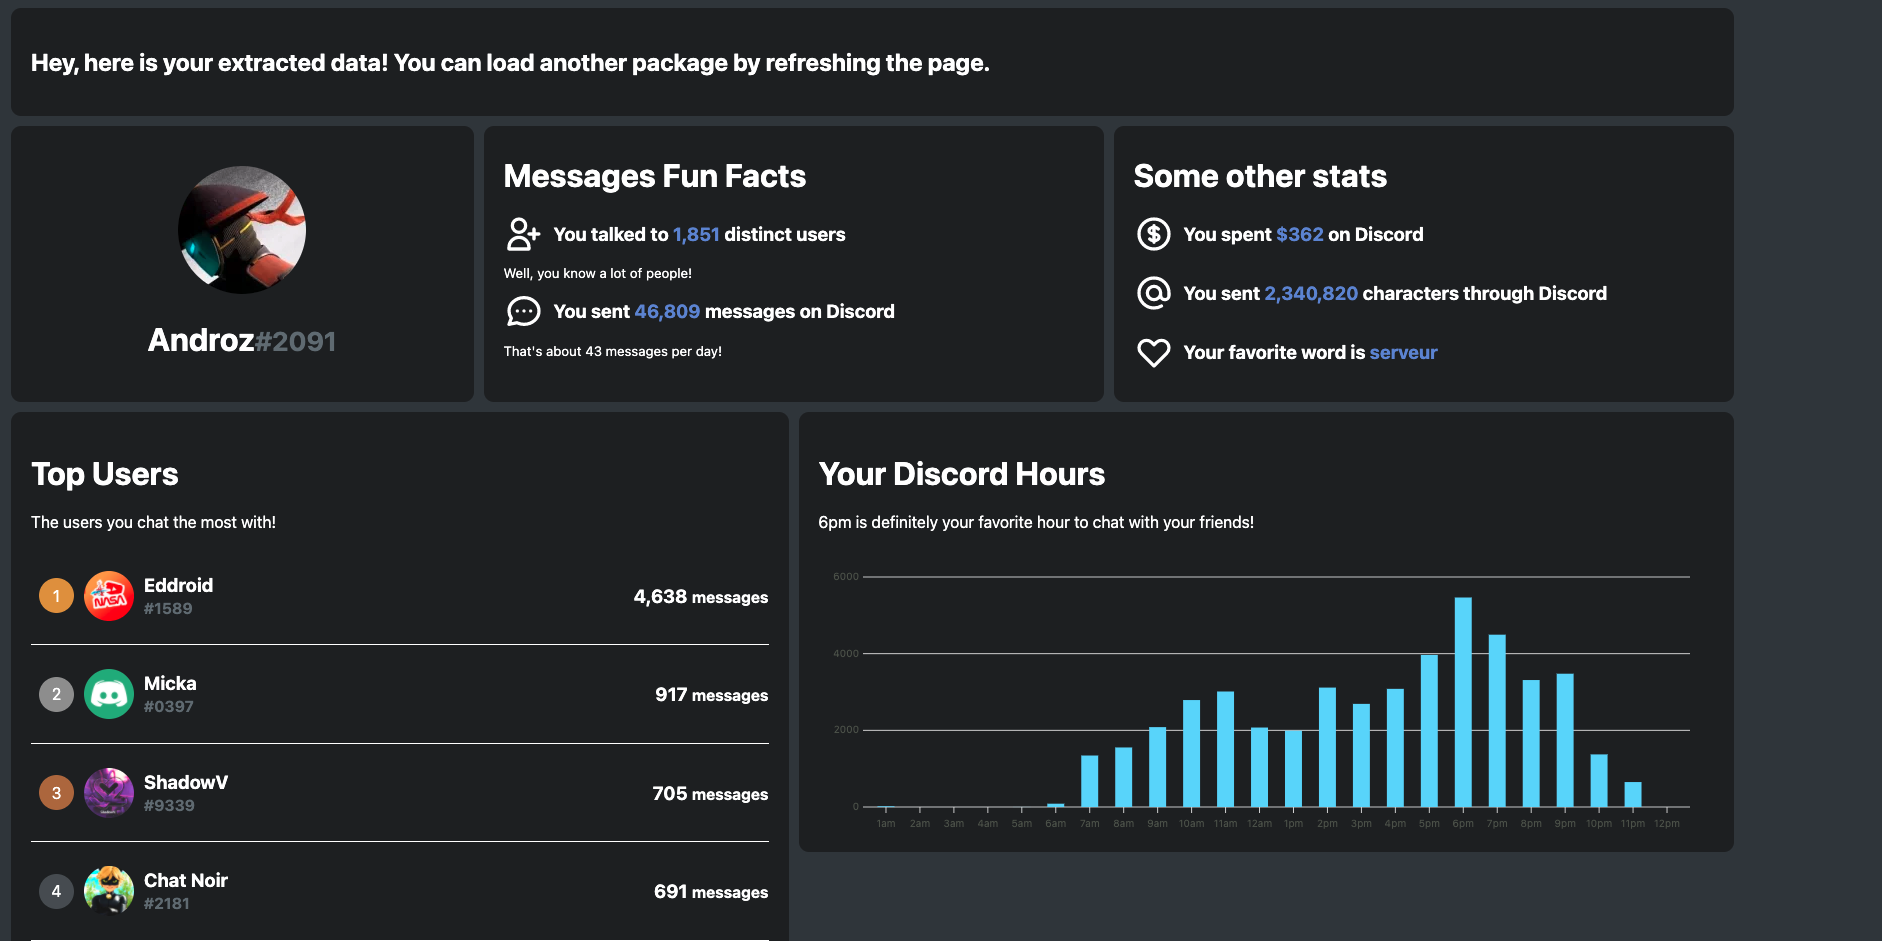
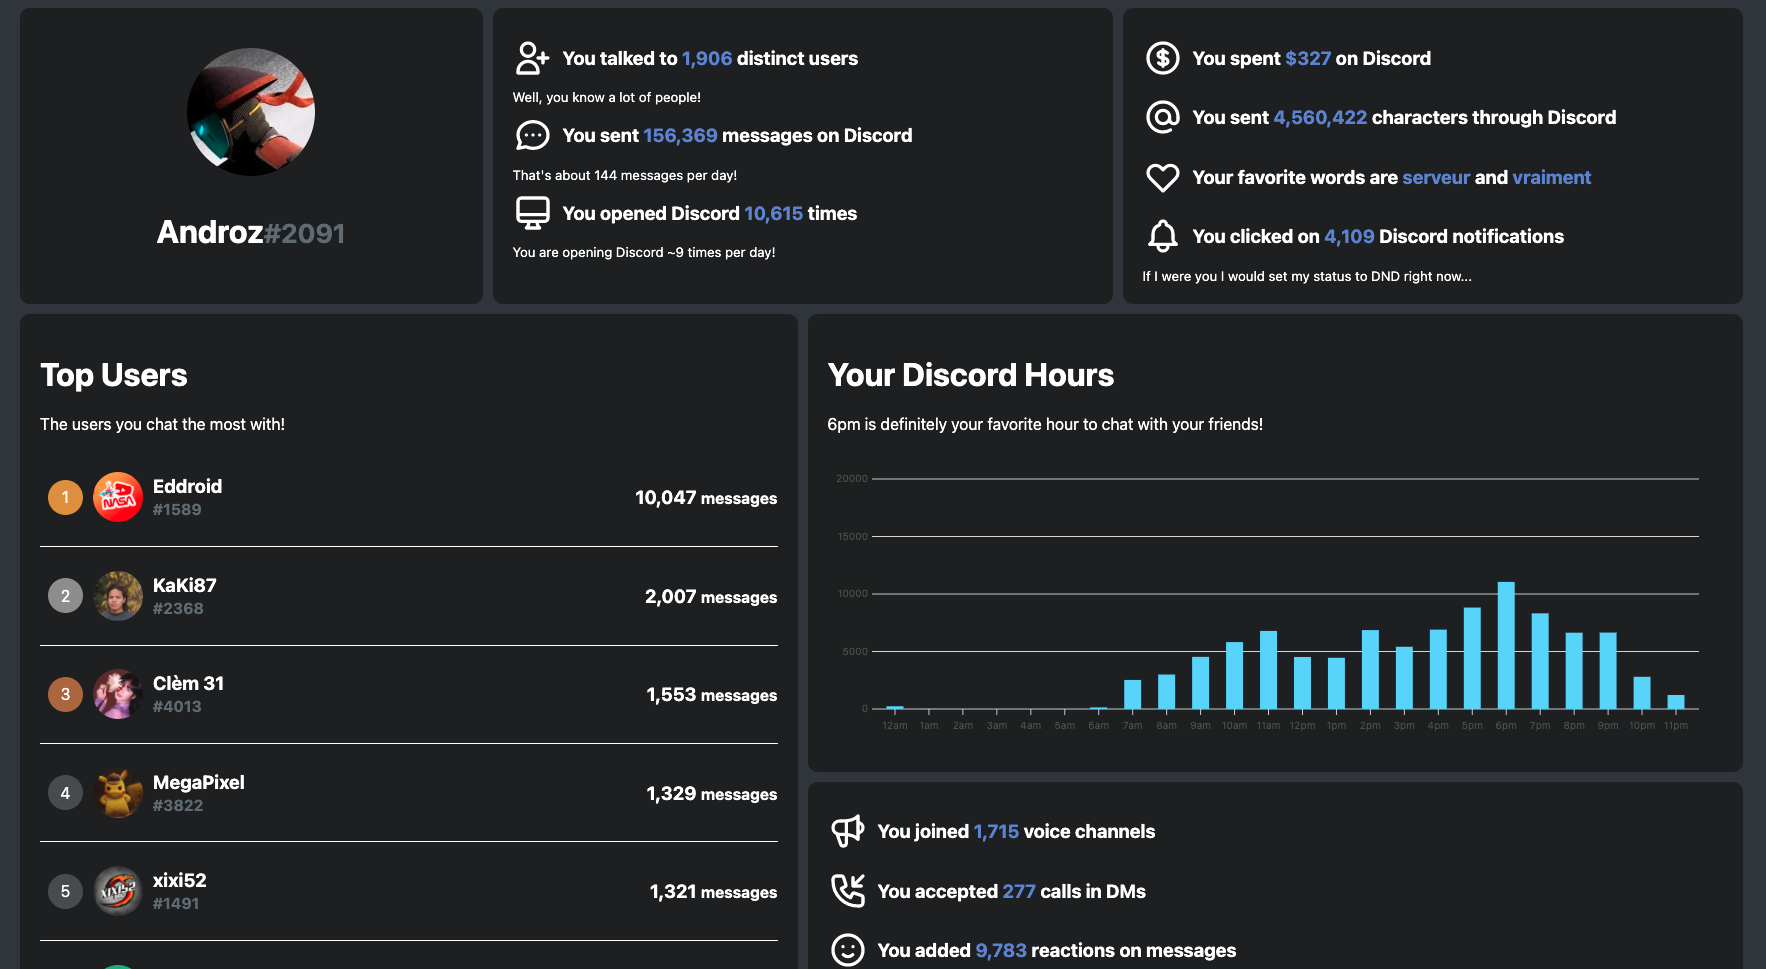
:sparkles: New statistics

Changed region(s): [[0.0, 0.0, 0.9966, 1.0]]

diff --git a/src/views/Home.svelte b/src/views/Home.svelte
@@ -44,14 +44,14 @@ const hoursLabels = new Array(24).fill(0).map((v, i) => i == 0 ? '12am' : i < 12
             <small>Well, you know a lot of people!</small>
             <div class="fun-fact">
                 <svg fill="none" stroke="currentColor" viewBox="0 0 24 24" xmlns="http://www.w3.org/2000/svg"><path stroke-linecap="round" stroke-linejoin="round" stroke-width="2" d="M8 12h.01M12 12h.01M16 12h.01M21 12c0 4.418-4.03 8-9 8a9.863 9.863 0 01-4.255-.949L3 20l1.395-3.72C3.512 15.042 3 13.574 3 12c0-4.418 4.03-8 9-8s9 3.582 9 8z"></path></svg>
-                <h3 style="margin-left: 10px;">You sent <span class="text-discord">{ $data.messageCount.toLocaleString('en-US') }</span> messages on Discord</h3>
+                <h3 style="margin-left: 10px;">You sent <span class="text-discord">{ $data.sentMessageCount.toLocaleString('en-US') }</span> messages on Discord</h3>
             </div>
             <small>That's about { $data.averageMessageCountPerDay.toLocaleString('en-US') } messages per day!</small>
             <div class="fun-fact">
                 <svg fill="none" stroke="currentColor" viewBox="0 0 24 24" xmlns="http://www.w3.org/2000/svg"><path stroke-linecap="round" stroke-linejoin="round" stroke-width="2" d="M9.75 17L9 20l-1 1h8l-1-1-.75-3M3 13h18M5 17h14a2 2 0 002-2V5a2 2 0 00-2-2H5a2 2 0 00-2 2v10a2 2 0 002 2z"></path></svg>
                 <h3 style="margin-left: 10px;">You opened Discord <span class="text-discord">{ $data.openCount.toLocaleString('en-US') }</span> times</h3>
             </div>
-            <small>You are checking Discord ~{ $data.averageOpenCountPerDay.toLocaleString('en-US') } times per day!</small>
+            <small>You are opening Discord ~{ $data.averageOpenCountPerDay.toLocaleString('en-US') } times per day!</small>
         </div>
         <div class="other-stats card">
             <div class="fun-fact">
@@ -107,6 +107,28 @@ const hoursLabels = new Array(24).fill(0).map((v, i) => i == 0 ? '12am' : i < 12
             }} axisOptions="{{
                 xAxisMode: 'tick'
             }}" type="bar" />
+        </div>
+        <div class="analytics-stats card">
+            <div class="fun-fact">
+                <svg fill="none" stroke="currentColor" viewBox="0 0 24 24" xmlns="http://www.w3.org/2000/svg"><path stroke-linecap="round" stroke-linejoin="round" stroke-width="2" d="M11 5.882V19.24a1.76 1.76 0 01-3.417.592l-2.147-6.15M18 13a3 3 0 100-6M5.436 13.683A4.001 4.001 0 017 6h1.832c4.1 0 7.625-1.234 9.168-3v14c-1.543-1.766-5.067-3-9.168-3H7a3.988 3.988 0 01-1.564-.317z"></path></svg>
+                <h3 style="margin-left: 10px;">You joined <span class="text-discord">{ $data.joinVoiceChannelCount.toLocaleString('en-US') }</span> voice channels</h3>
+            </div>
+            <div class="fun-fact">
+                <svg class="w-6 h-6" fill="none" stroke="currentColor" viewBox="0 0 24 24" xmlns="http://www.w3.org/2000/svg"><path stroke-linecap="round" stroke-linejoin="round" stroke-width="2" d="M21 3l-6 6m0 0V4m0 5h5M5 3a2 2 0 00-2 2v1c0 8.284 6.716 15 15 15h1a2 2 0 002-2v-3.28a1 1 0 00-.684-.948l-4.493-1.498a1 1 0 00-1.21.502l-1.13 2.257a11.042 11.042 0 01-5.516-5.517l2.257-1.128a1 1 0 00.502-1.21L9.228 3.683A1 1 0 008.279 3H5z"></path></svg>
+                <h3 style="margin-left: 10px;">You accepted <span class="text-discord">{ $data.joinCallCount.toLocaleString('en-US') }</span> calls in DMs</h3>
+            </div>
+            <div class="fun-fact">
+                <svg fill="none" stroke="currentColor" viewBox="0 0 24 24" xmlns="http://www.w3.org/2000/svg"><path stroke-linecap="round" stroke-linejoin="round" stroke-width="2" d="M14.828 14.828a4 4 0 01-5.656 0M9 10h.01M15 10h.01M21 12a9 9 0 11-18 0 9 9 0 0118 0z"></path></svg>
+                <h3 style="margin-left: 10px;">You added <span class="text-discord">{ $data.addReactionCount.toLocaleString('en-US') }</span> reactions on messages</h3>
+            </div>
+            <div class="fun-fact">
+                <svg fill="none" stroke="currentColor" viewBox="0 0 24 24" xmlns="http://www.w3.org/2000/svg"><path stroke-linecap="round" stroke-linejoin="round" stroke-width="2" d="M11 5H6a2 2 0 00-2 2v11a2 2 0 002 2h11a2 2 0 002-2v-5m-1.414-9.414a2 2 0 112.828 2.828L11.828 15H9v-2.828l8.586-8.586z"></path></svg>
+                <h3 style="margin-left: 10px;">You edited <span class="text-discord">{ $data.messageEditedCount.toLocaleString('en-US') }</span> of your messages</h3>
+            </div>
+            <div class="fun-fact">
+                <svg fill="none" stroke="currentColor" viewBox="0 0 24 24" xmlns="http://www.w3.org/2000/svg"><path stroke-linecap="round" stroke-linejoin="round" stroke-width="2" d="M11 4a2 2 0 114 0v1a1 1 0 001 1h3a1 1 0 011 1v3a1 1 0 01-1 1h-1a2 2 0 100 4h1a1 1 0 011 1v3a1 1 0 01-1 1h-3a1 1 0 01-1-1v-1a2 2 0 10-4 0v1a1 1 0 01-1 1H7a1 1 0 01-1-1v-3a1 1 0 00-1-1H4a2 2 0 110-4h1a1 1 0 001-1V7a1 1 0 011-1h3a1 1 0 001-1V4z"></path></svg>
+                <h3 style="margin-left: 10px;">You used <span class="text-discord">{ $data.slashCommandUsedCount.toLocaleString('en-US') }</span> Slash Commands</h3>
+            </div>
         </div>
     </div>
 </div>
@@ -206,6 +228,9 @@ const hoursLabels = new Array(24).fill(0).map((v, i) => i == 0 ? '12am' : i < 12
         }
         .card.other-stats {
             grid-column: 8 / 12;
+        }
+        .card.analytics-stats {
+            grid-column: 6 / 12;
         }
         .card.top-users {
             grid-column: 1 / 6;

diff --git a/src/app/extractor.js b/src/app/extractor.js
@@ -223,15 +223,13 @@ export const extractData = async (files) => {
     extractedData.joinCallCount = statistics.joinCallCount;
     extractedData.addReactionCount = statistics.addReactionCount;
     extractedData.messageEditedCount = statistics.messageEditedCount;
-    extractedData.sendMessageCount = statistics.sendMessageCount;
-    extractedData.slashCommandUsedCount = statistics.slashCommandUsedCount; 
+    extractedData.sentMessageCount = statistics.sendMessageCount;
+    extractedData.averageMessageCountPerDay = perDay(extractedData.sentMessageCount, extractedData.user.id);
+    extractedData.slashCommandUsedCount = statistics.slashCommandUsedCount;
 
     console.log('[debug] Activity fetched...');
 
     loadTask.set('Calculating statistics...');
-
-    extractedData.messageCount = extractedData.channels.map((c) => c.messages.length).reduce((p, c) => p + c);
-    extractedData.averageMessageCountPerDay = perDay(extractedData.messageCount, extractedData.user.id);
 
     for (let i = 0; i < 24; i++) {
         extractedData.hoursValues.push(extractedData.channels.map((c) => c.messages).flat().filter((m) => new Date(m.timestamp).getHours() === i).length);

diff --git a/src/app/store.js b/src/app/store.js
@@ -54,7 +54,7 @@ if (isDemo) {
         joinCallCount: randomNumber(20, 30),
         addReactionCount: randomNumber(100, 200),
         messageEditedCount: randomNumber(50, 70),
-        sendMessageCount: randomNumber(200, 600),
+        sentMessageCount: randomNumber(200, 600),
         slashCommandUsedCount: randomNumber(10, 20)
     };
 }
